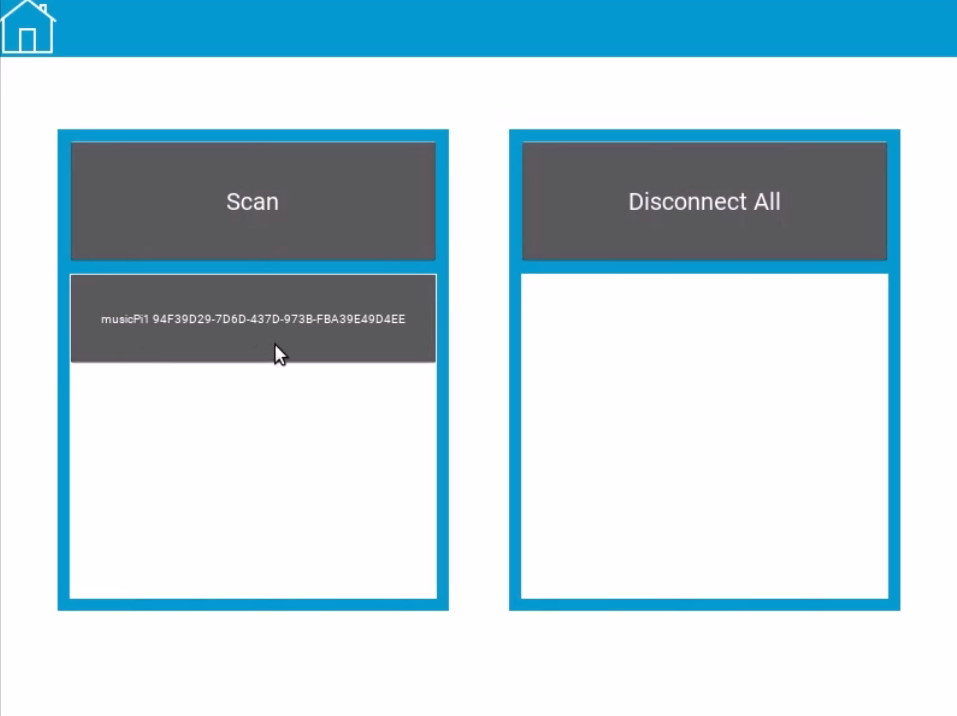
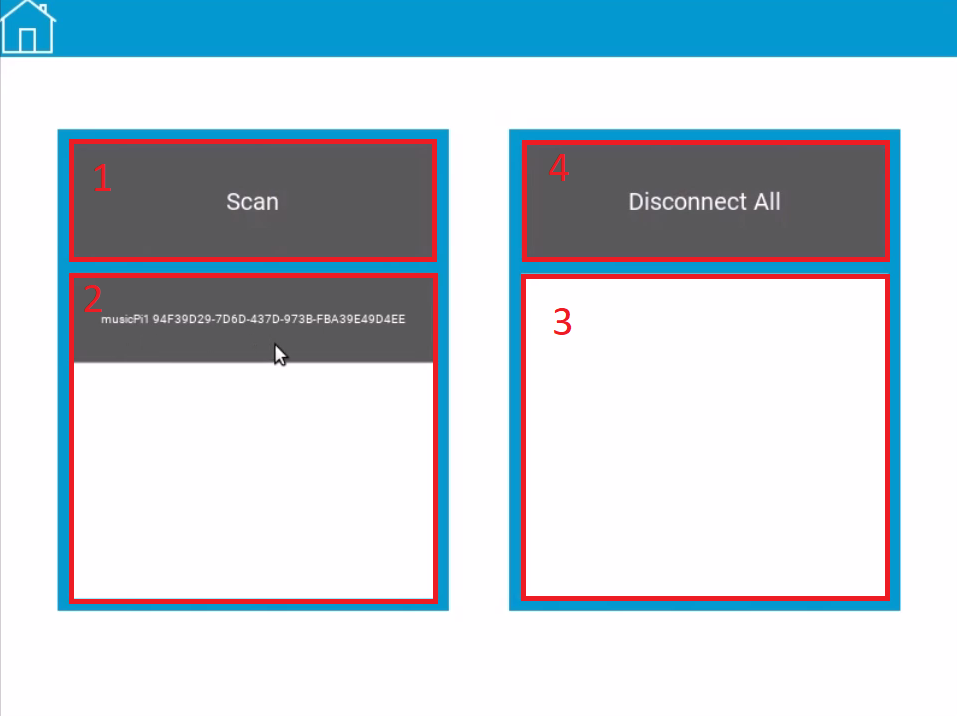
checking changes

Changed region(s): [[0.5455, 0.1844, 0.9394, 0.8603], [0.0606, 0.1844, 0.4545, 0.8603], [0.4545, 0.3994, 0.4848, 0.8296]]

diff --git a/index.html b/index.html
@@ -1,4 +1,20 @@
 <h1>SoundClout Application User Guide</h1>
 <br>
-<p>The Soundclout app is an application intended to control and distribute a series of instructions to raspberry pi devices for use in a sound art installation. Even though the intended use of the app is for an art installation, it can still serve as a generalized raspberry pi controller.</p>
-<p>The raspberry pis need to be configured with specific code we have developed in order to properly recieve and execute instructions from the soundclout app. A guide for setting up the RPi devices can be found <a href="https://github.com/SCCapstone/SoundClout/wiki/Raspberry-Pi-MotorSlider-circuit-diagram">here</a></p>
+<p style="font-family:courier;">The Soundclout app is an application intended to control and distribute a series of instructions to raspberry pi devices for use in a sound art installation. Even though the intended use of the app is for an art installation, it can still serve as a generalized raspberry pi controller.</p>
+<p style="font-family:courier;">The raspberry pis need to be configured with specific code we have developed in order to properly recieve and execute instructions from the soundclout app. A guide for setting up the RPi devices can be found <a href="https://github.com/SCCapstone/SoundClout/wiki/Raspberry-Pi-MotorSlider-circuit-diagram">here</a>.</p>
+<br>
+<img src="./images/home.png" alt="Homescreen">
+<br>
+
+<p style="font-family:courier;">To get started you must connect to the raspberry pis you intend on using. Go to the "Connect Devices" Page.</p>
+<img src="./images/connectdev.png" alt="Connected Devices">
+<p style="font-family:courier;"> First make sure your computer's bluetooth is ON. Hit scan<em>(1)</em> and the app will search the list of bluetooth enabled devices in the area for the configured raspberry pis. The list of devices that show up in the list under scan<em>(2)</em> will only be the pis that are configured for the app- so any other devices in the area won't be available to make a connection. Click on the device name in the list to add it to your list of connected devices<em>(3)</em>. If you wish to disconnect from a device simply click on the name in the connected devices area<em>(3)</em>. If you want to disconnect from all devices, hit the button<em>(4)</em>. Click the home icon in the top left corner to return to the main screen.</p>
+<br>
+
+<p style="font-family:courier;">To test the raspberry pis you are connected to, navigate to the "Device Tester" screen.</p>
+<img src="./images/testdev.png" alt="Test Devices">
+<p style="font-family:courier;">There will be a list of the devices you are connected to<em>(1)</em> and then you can toggle the switches<em>(2)</em> next to the name to "ON" and hit the test button<em>(3)</em> to start running the components connected to the Pi(s).</p>
+<p style="font-family:courier;">Once you are satisfied everything is working as intended you can start grouping together your devices</p>
+<br>
+
+<p style="font-family:courier;">Go to the "Edit Device Groups page" to begin adding devices.</p>
